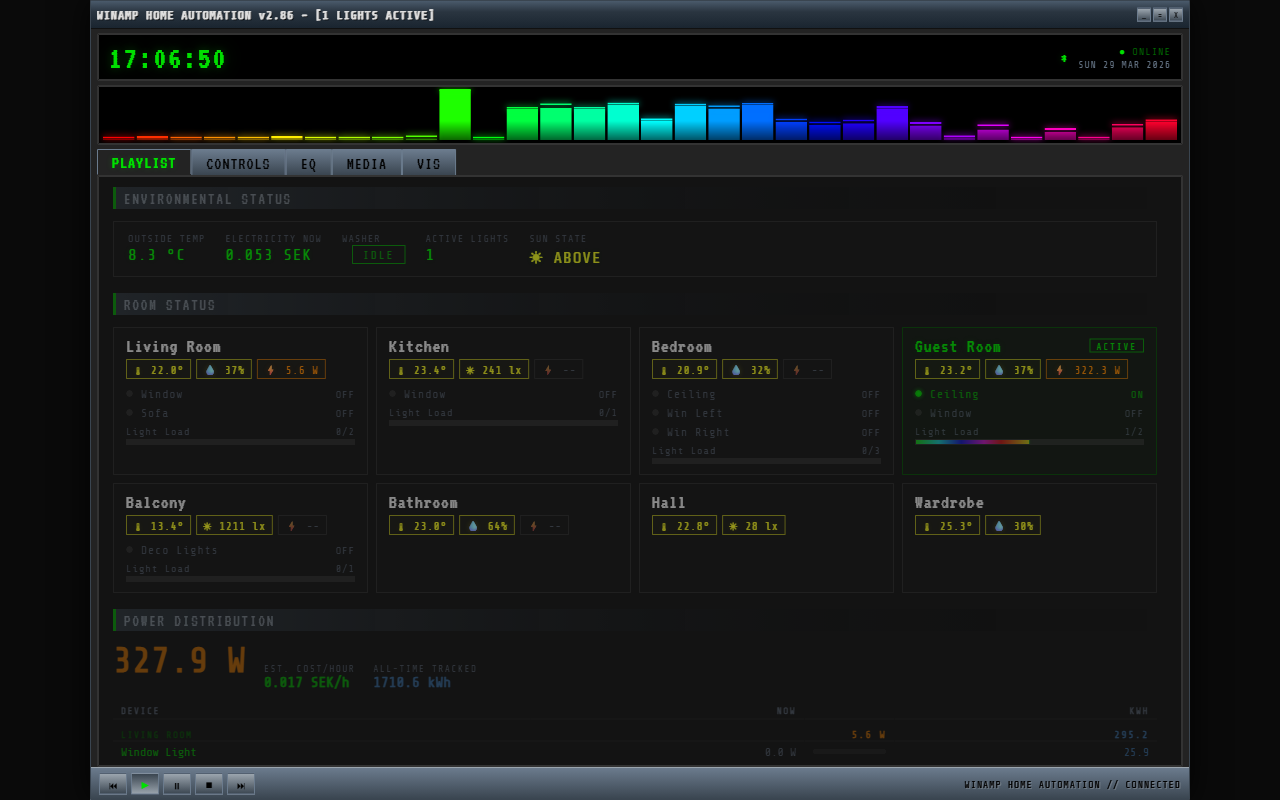
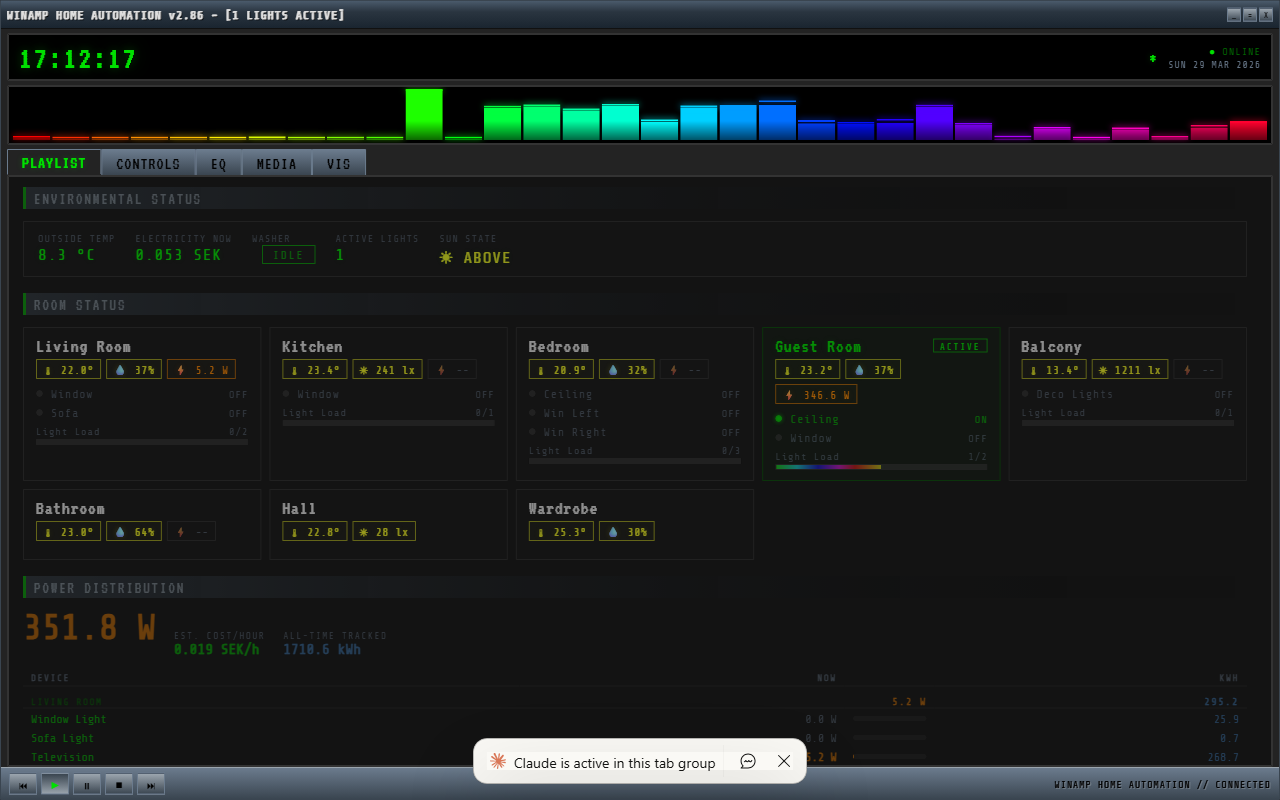
Widen Winamp wrapper to 1280px and retake screenshot

diff --git a/winamp-dashboard.html b/winamp-dashboard.html
@@ -51,7 +51,7 @@
     flex-direction: column;
     height: 100vh;
     height: 100dvh;
-    max-width: 1100px;
+    max-width: 1280px;
     margin: 0 auto;
     background: var(--bg);
     border: 1px solid var(--chrome-dark);
